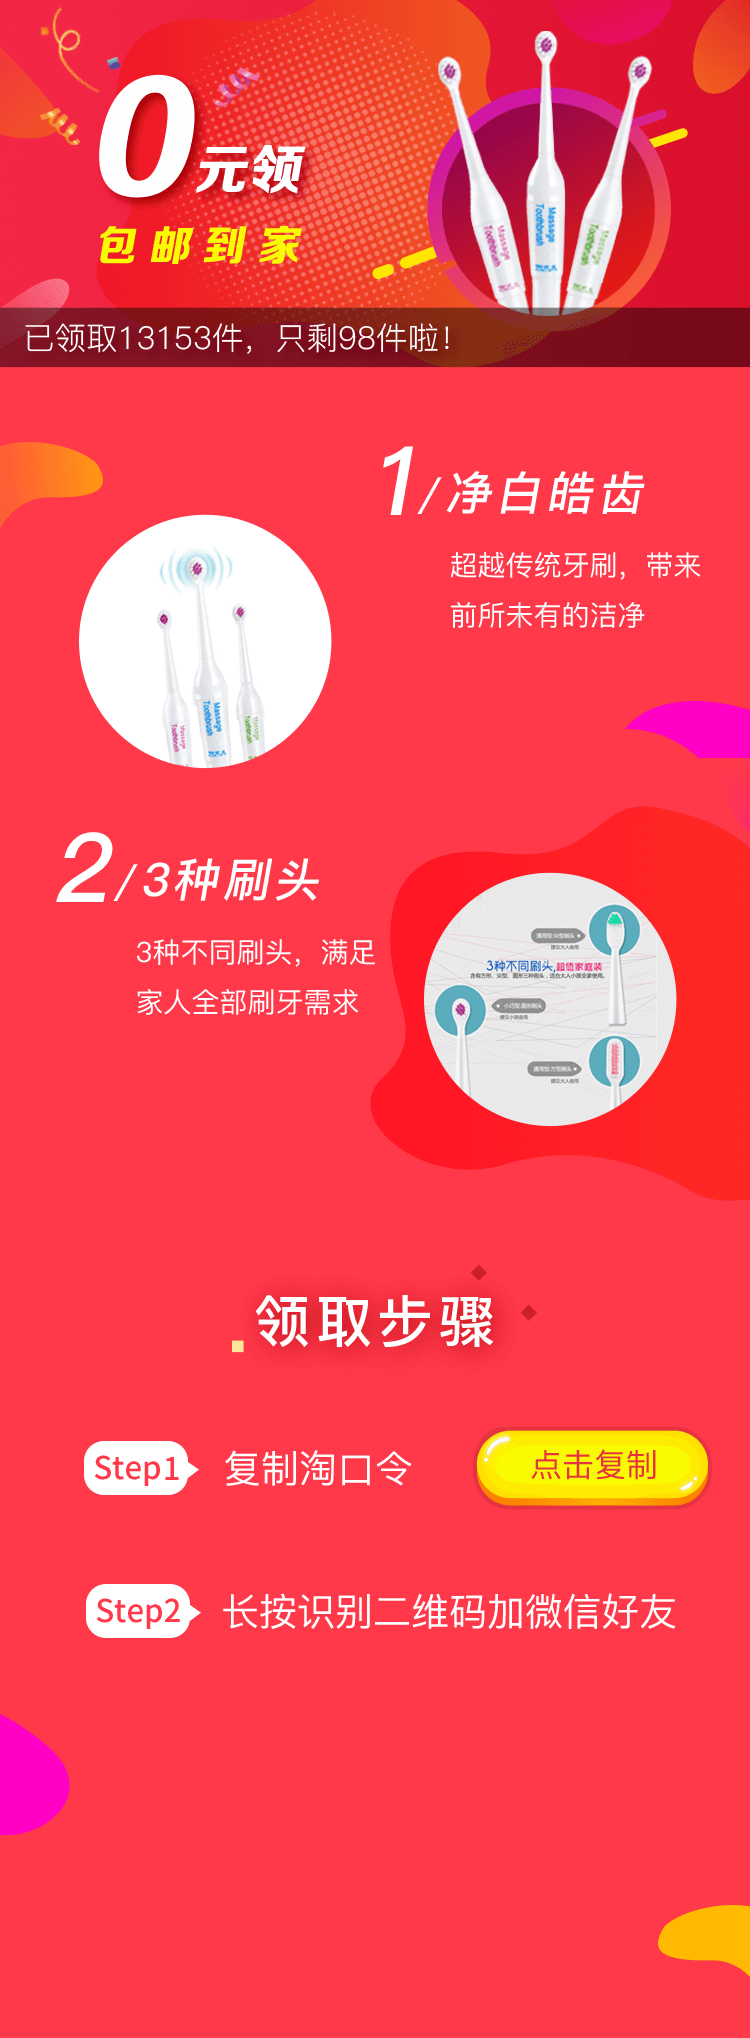
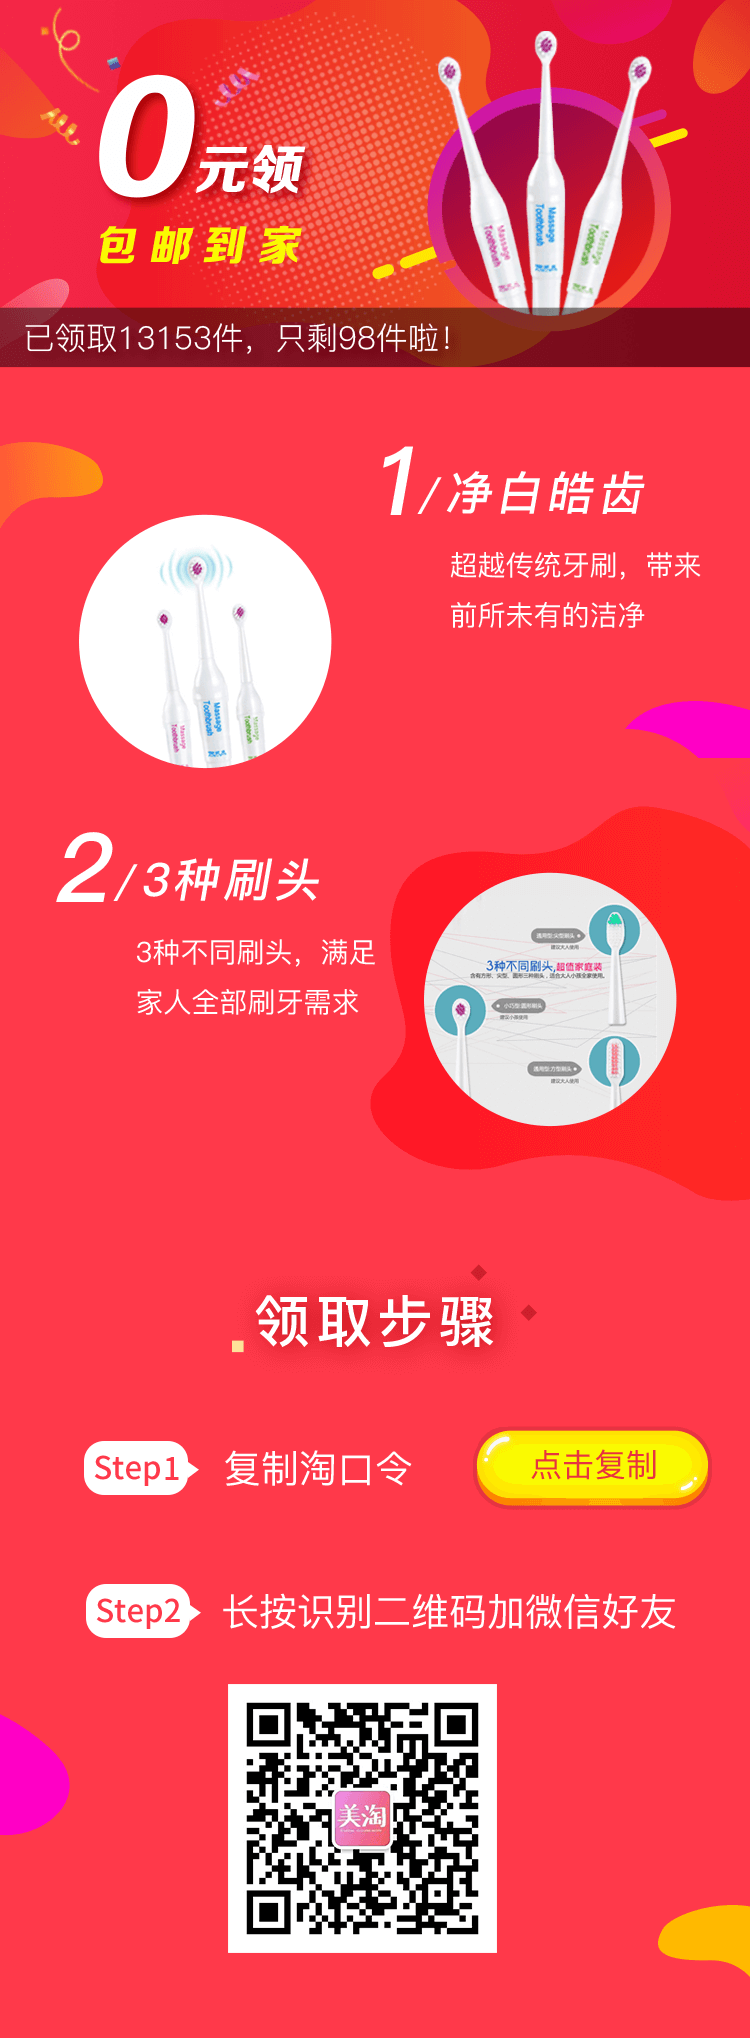
替换文件

Changed region(s): [[0.3067, 0.8037, 0.6747, 0.9583]]

diff --git a/project/public/index2.html b/project/public/index2.html
@@ -71,9 +71,7 @@
     <div class="wrap">
         <img src="img/bg2.png"/>
         <div class="btn"></div>
-        <div class="chat">
-            <img src="img/er1.jpeg"/>
-        </div>
+        
         <textarea id="foo"></textarea>
     </div>
 <script>

diff --git a/project/public/index1.html b/project/public/index1.html
@@ -72,9 +72,7 @@
     <div class="wrap">
         <img src="img/bg1.png"/>
         <div class="btn"></div>
-        <div class="chat">
-            <img src="img/er.jpeg"/>
-        </div>
+        
         <textarea id="foo"></textarea>
     </div>
 <script>
